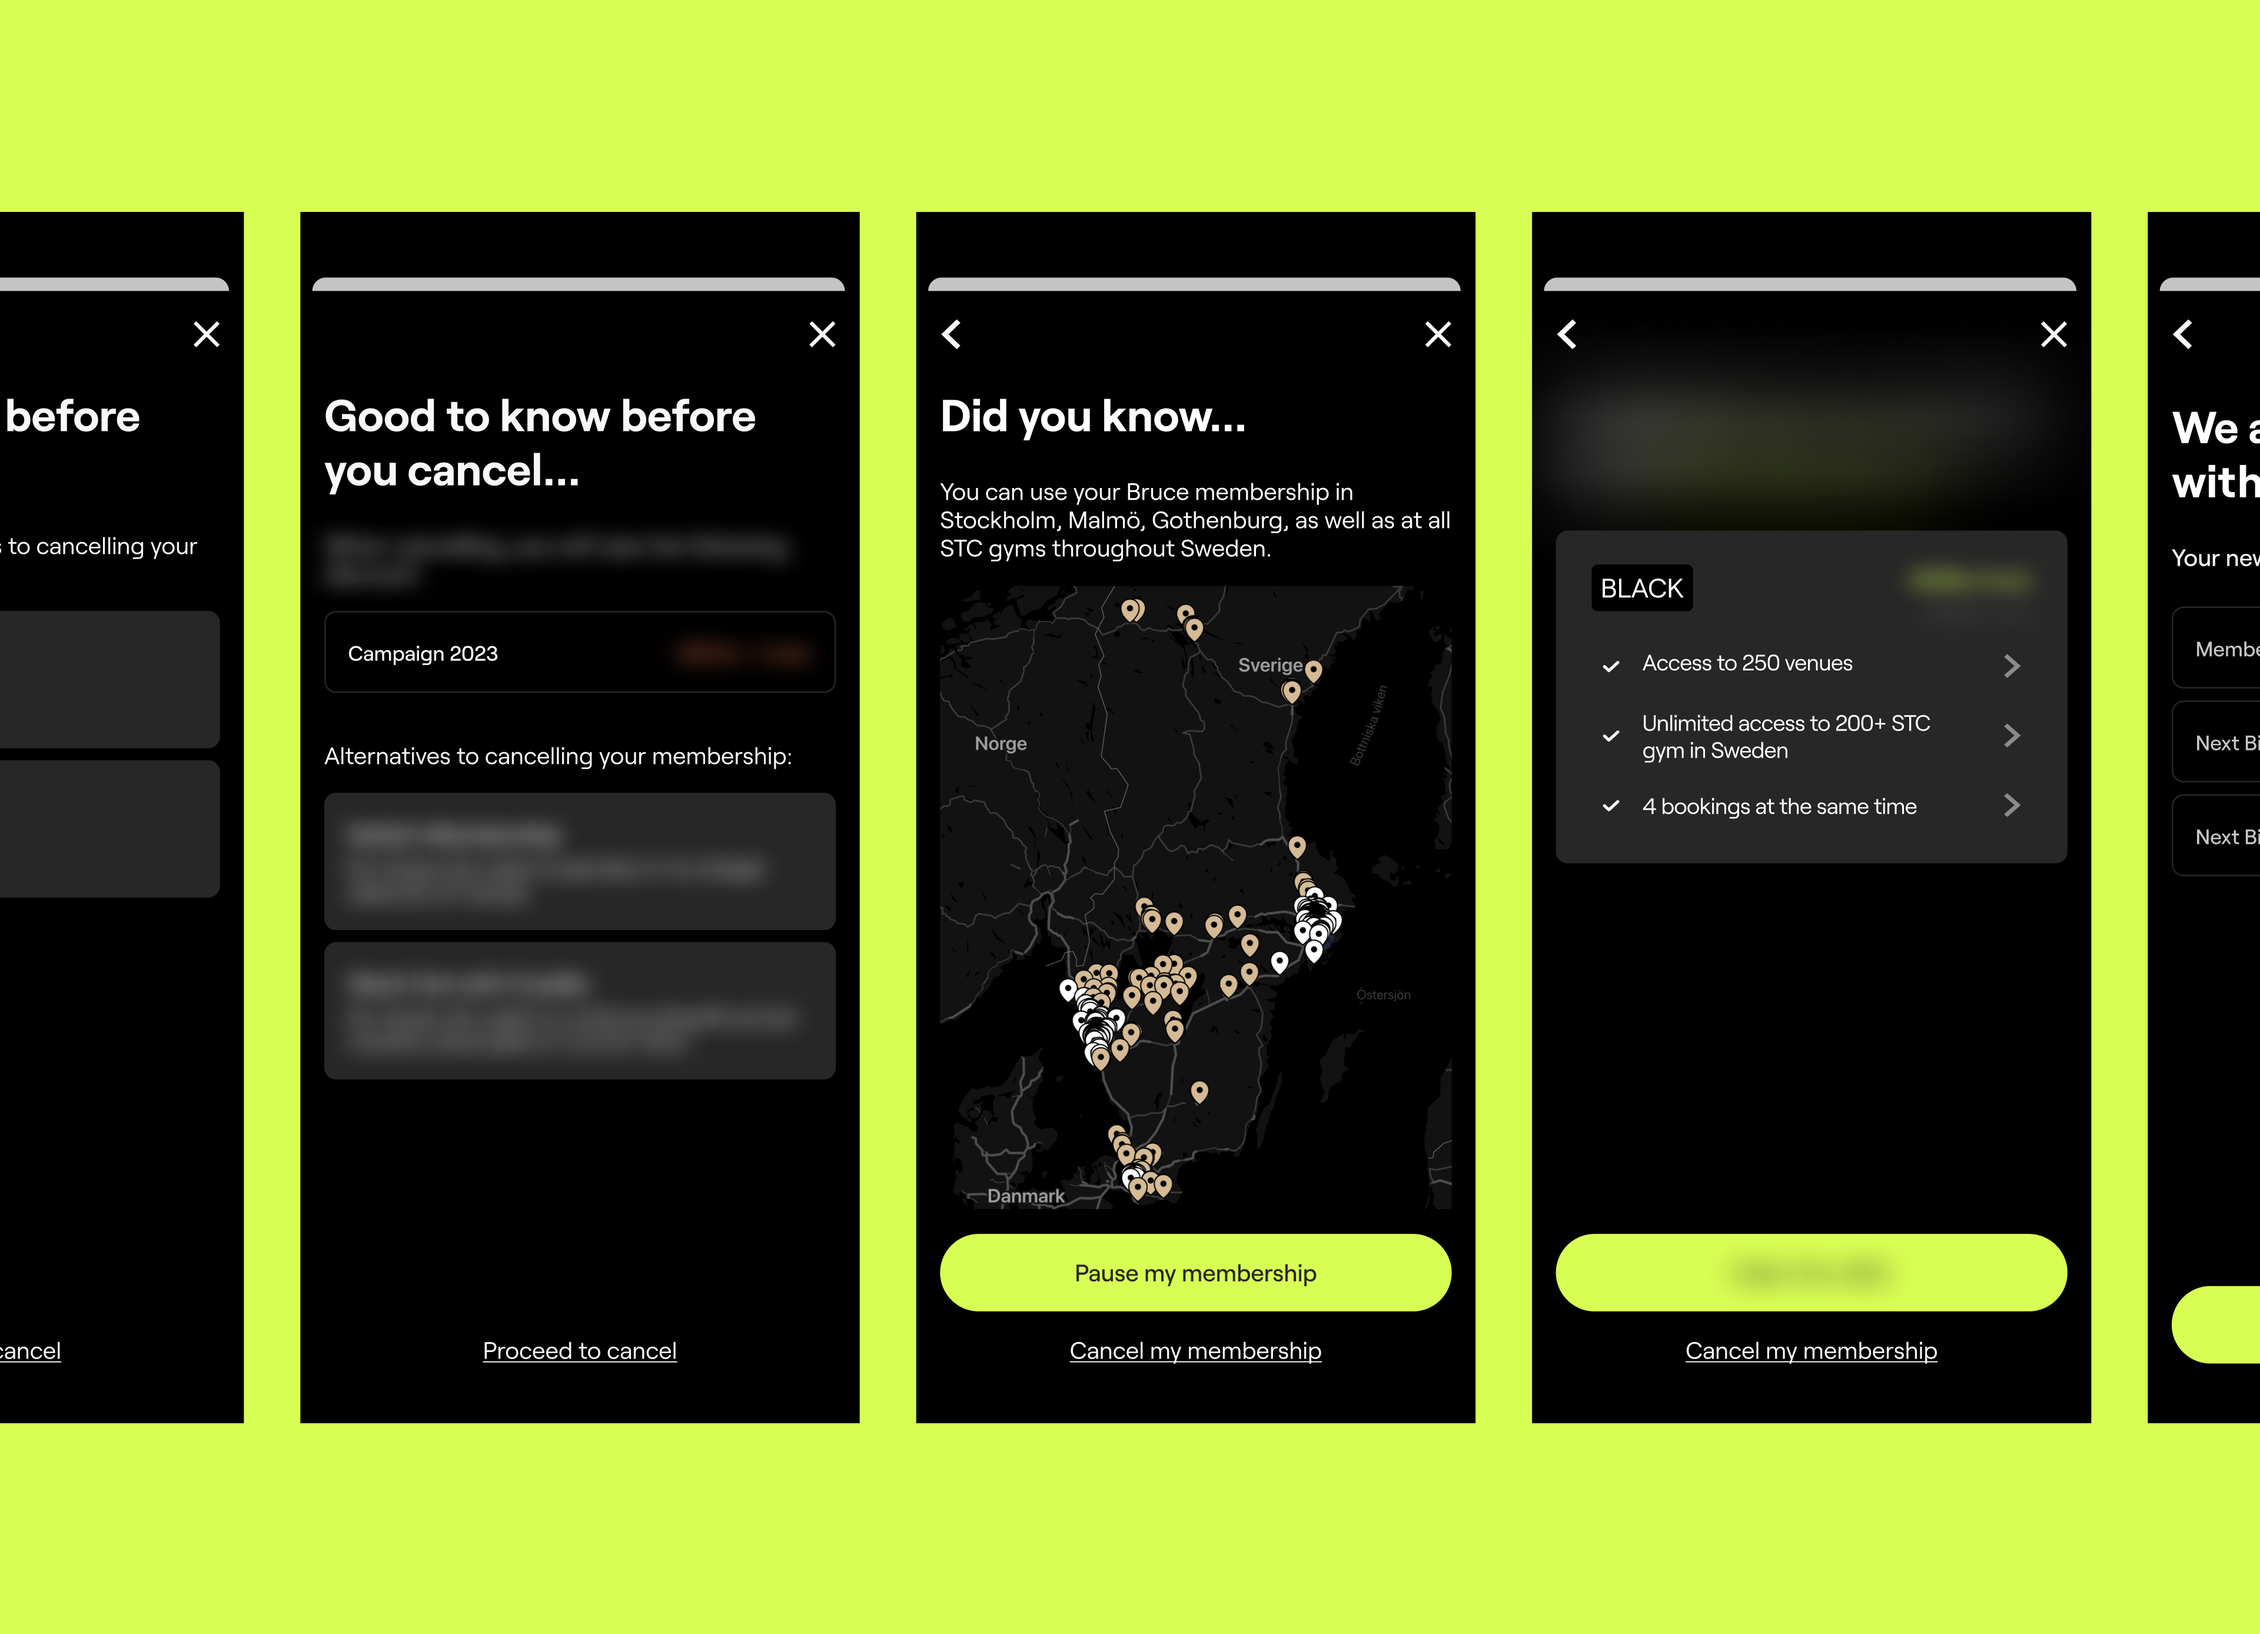
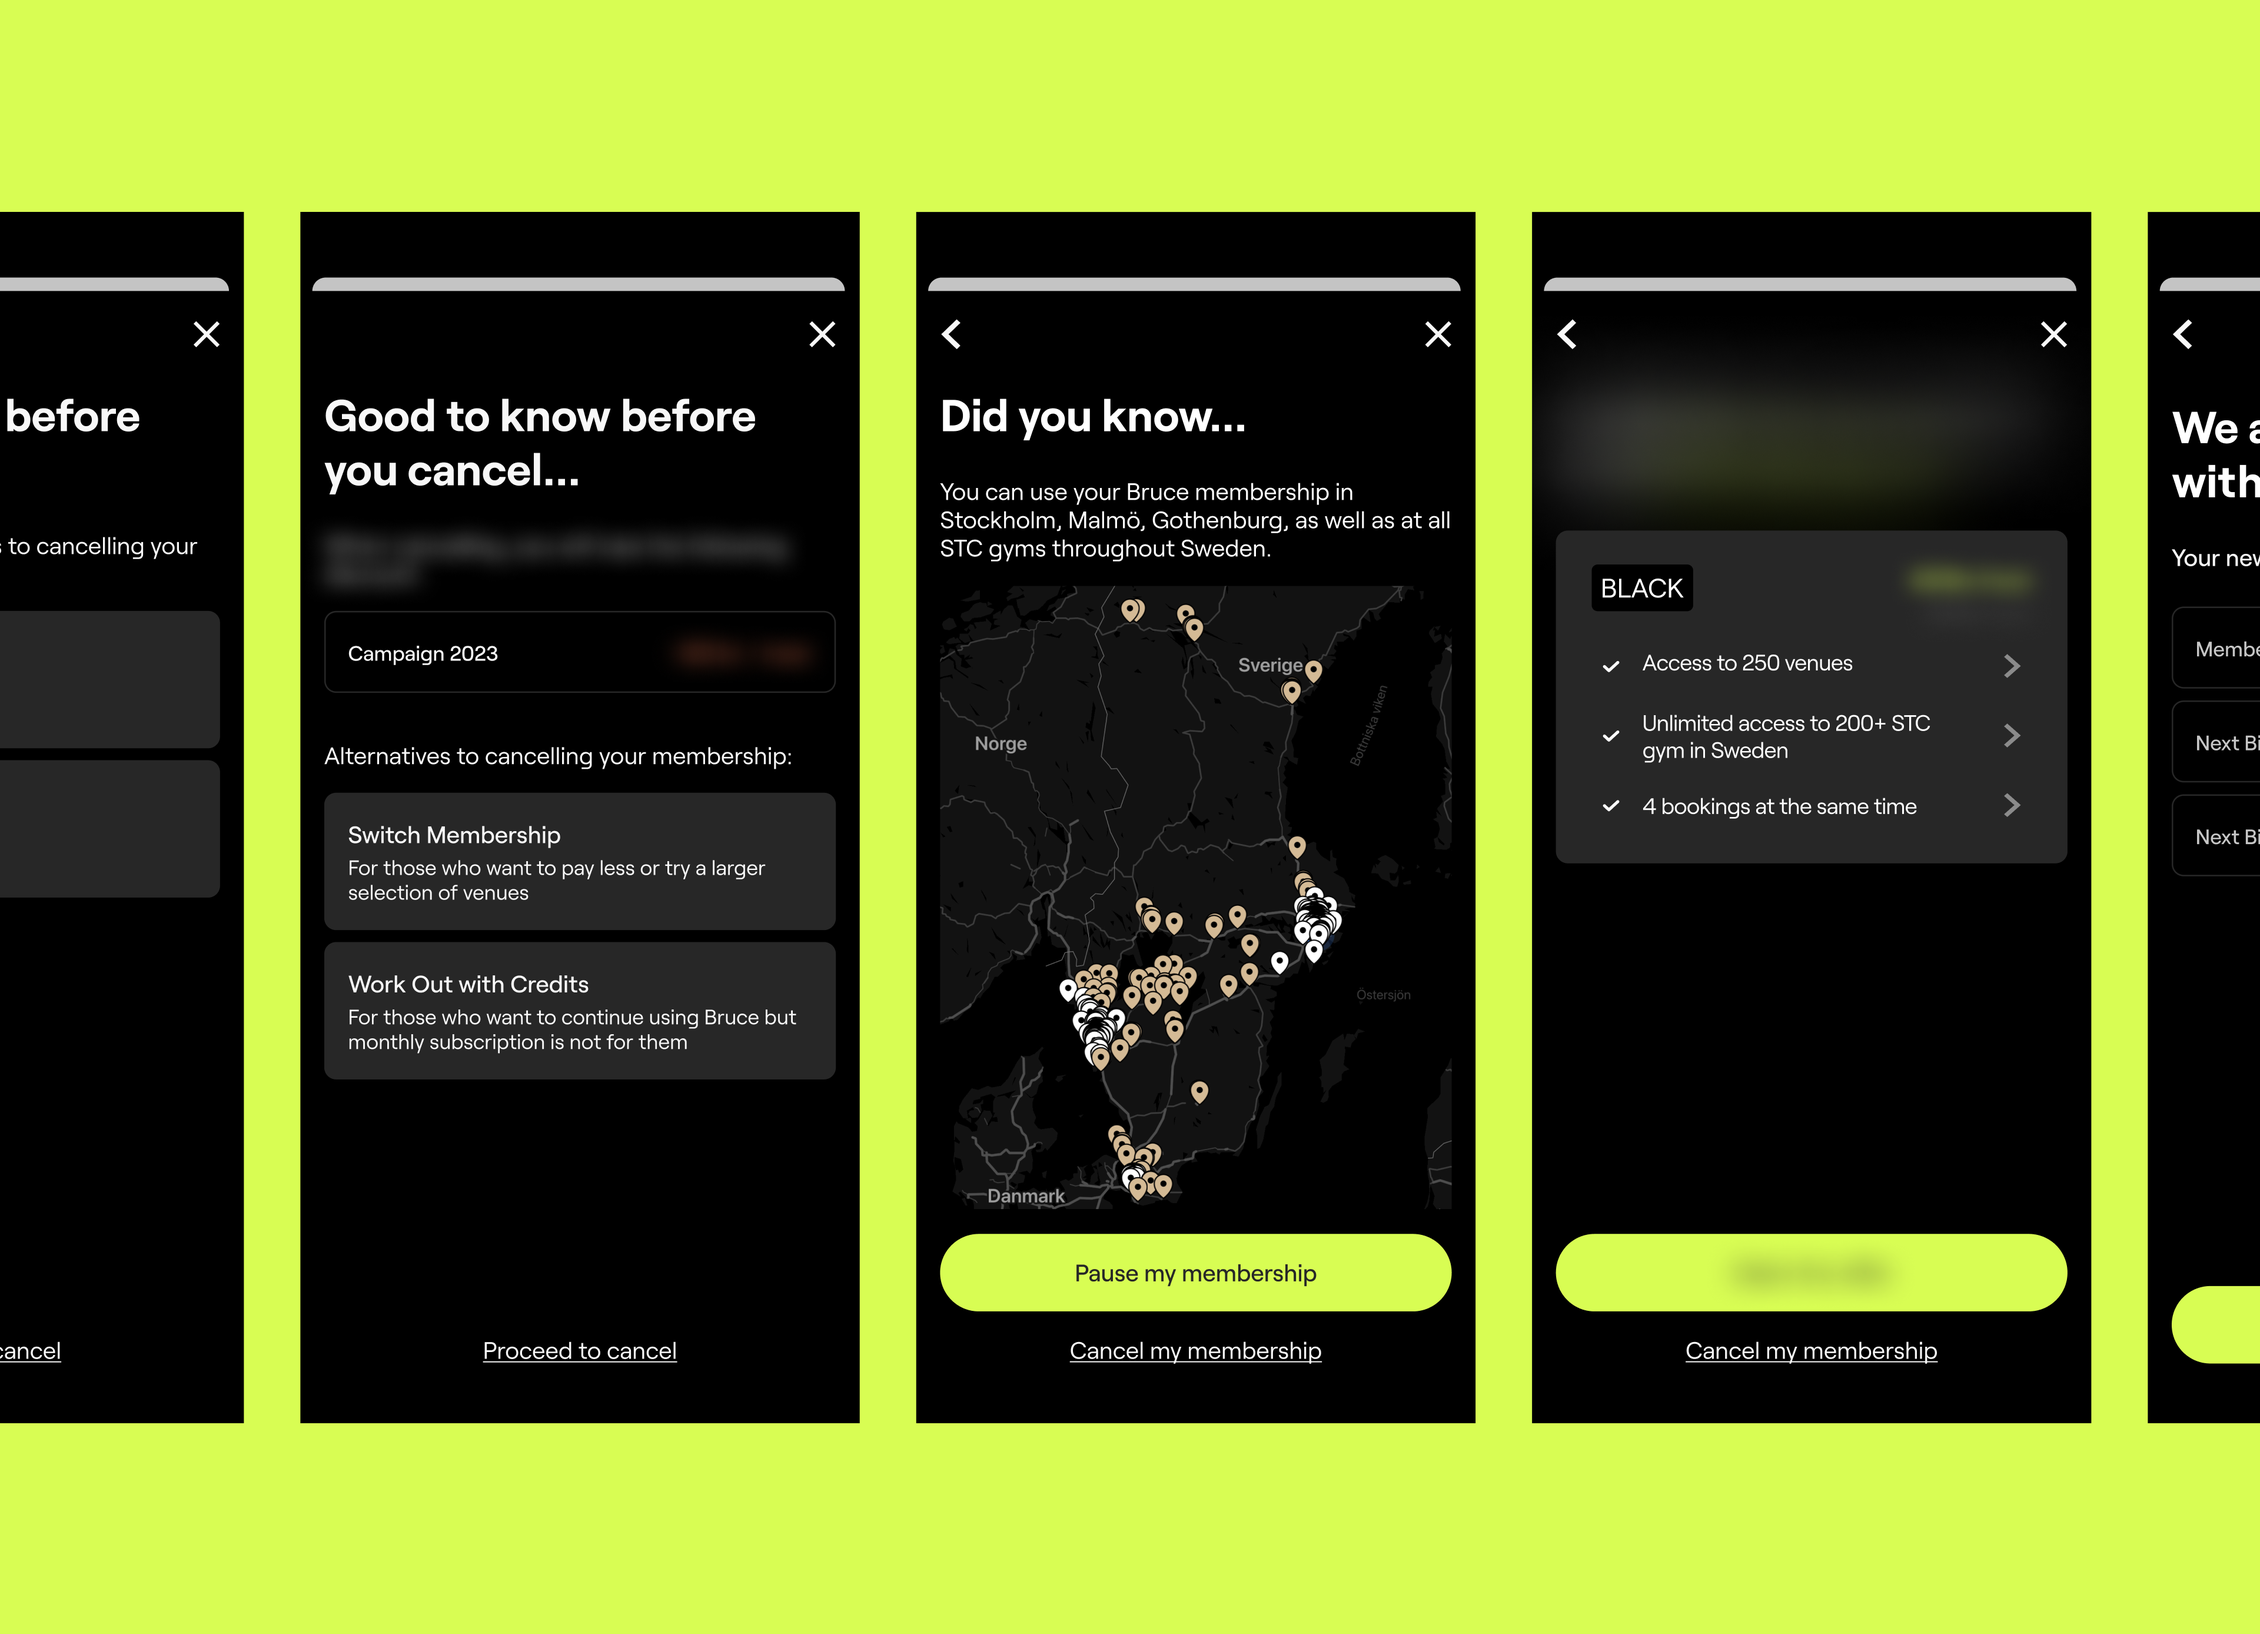
update mockup

Changed region(s): [[0.1562, 0.5886, 0.3438, 0.6506], [0.1562, 0.4957, 0.2812, 0.5576], [0.3125, 0.5267, 0.3438, 0.5576]]

diff --git a/cases/vy-for-bruce.html b/cases/vy-for-bruce.html
@@ -62,7 +62,7 @@
             </div>
 </div>
 
-        
+<img src="case-img/bruce-mockup.png">
 
          
        
